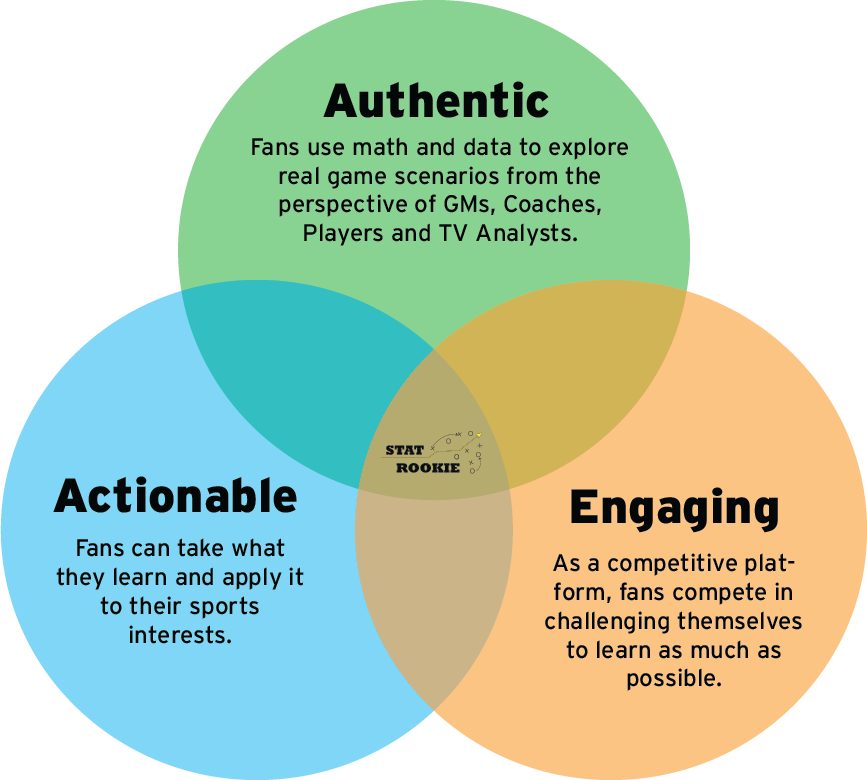
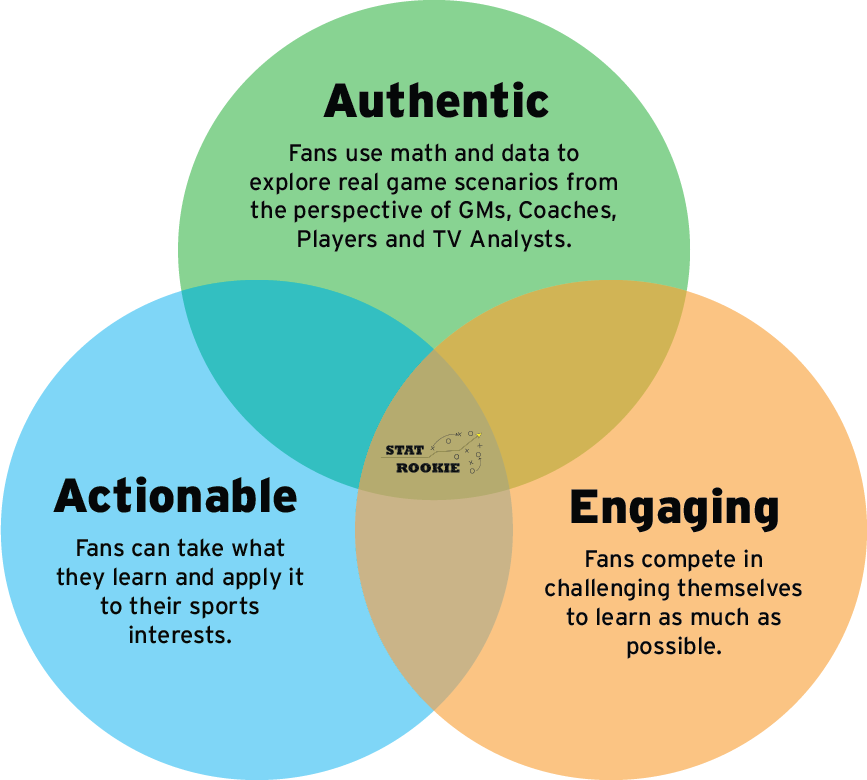
Add team bios. Plus other small changes.

Changed region(s): [[0.2803, 0.1538, 0.7163, 0.3385], [0.6228, 0.7077, 0.9343, 0.8923]]

diff --git a/team.html b/team.html
@@ -11,119 +11,180 @@ permalink: /team/
     <div class="row">
         <h1>Meet the team!</h1>
 
-        <p>Lorem ipsum dolor sit amet, consectetur adipiscing elit, sed do eiusmod
-            tempor incididunt ut labore et dolore magna aliqua. Ut enim ad minim veniam, quis nostrud exercitation
-            ullamco laboris nisi ut aliquip ex ea commodo consequat. Duis aute irure dolor in reprehenderit in voluptate
-            velit esse cillum dolore eu fugiat nulla pariatur. Excepteur sint occaecat cupidatat non proident, sunt in culpa qui
-            officia deserunt mollit anim id est laborum.</p>
+        <p>Our StatRookie team is comprised of talented individuals who are also passionate about sports. Our goal is
+            to deliver a great product that will teach and engage fans in sports analytics and stategy.
+        </p>
     </div>
     <div class="row">
         <div class="col">
             <!-- RAHUL -->
             <div class="card mb-3 border-0">
                 <div class="row g-0">
-                    <div class="col-md-5">
+                    <div class="col-md-4 p-2">
                         <img src="/assets/images/team/rahul.jpg" class="rounded-circle" width="95%"
                             alt="CEO Rahul Vasisht stands next to a banner with the StatRookie logo as his booth from MIT Sloan Analytics Conference in 2019.">
                     </div>
-                    <div class="col-md-7">
+                    <div class="col-md-8 p-2 d-flex align-items-center">
                         <div class="card-body">
                             <h3 class="card-title">Rahul Vasisht</h3>
                             <h5 class="card-title">Founder & CEO</h5>
-                            <p class="card-text">Lorem ipsum dolor sit amet, consectetur adipiscing elit, sed do eiusmod
-                                tempor incididunt ut labore et dolore magna aliqua. Ut enim ad minim veniam, quis nostrud 
-                                exercitation ullamco laboris nisi ut aliquip ex ea commodo consequat. Duis aute irure dolor 
-                                in reprehenderit in voluptate velit esse cillum dolore eu fugiat nulla pariatur. Excepteur 
-                                sint occaecat cupidatat non proident, sunt in culpa qui officia deserunt mollit anim id est laborum.</p>
-                            <!-- <p class="card-text"><small class="text-muted">Last updated 3 mins ago</small></p> -->
+                            <p class="card-text">Rahul started StatRookie as a way for fans to tap into their love of
+                                sports to help them in the classroom. As an engineer in the aerospace industry, he
+                                understood the importance of breaking down complex topics into simple, relatable
+                                concepts. As a sports fan, he took this same idea and applied it to the core of
+                                StatRookie. Rahul's goal is to ensure that all fans have the confidence and the
+                                resources to quantify their observations on and off the court.
+                            </p>
+                            <!-- <p class="card-text"><a href="" style="color:#FFD000 !important;">@???</a></p> -->
                         </div>
                     </div>
                 </div>
             </div>
         </div>
     </div>
-    <div class="row row-cols-1 row-cols-md-4 g-4">
+    <div class="row">
 
         <div class="col">
             <!-- RICHARD -->
             <div class="card mb-3 border-0">
-
-                <img src="/assets/images/team/richard.jpg" class="card-img-top img-fluid rounded-circle" alt="...">
-
-                <div class="card-body">
-                    <h3 class="card-title">Richard Lu</h3>
-                    <h5 class="card-title">Basketball & Baseball Analytics</h5>
-                    <p class="card-text">Lorem ipsum dolor sit amet, consectetur adipiscing elit, sed do eiusmod
-                        tempor incididunt ut labore et
-                        dolore magna aliqua. Rhoncus urna neque viverra justo nec ultrices. Ultricies lacus sed
-                        turpis tincidunt
-                        id. Commodo ullamcorper a lacus vestibulum sed arcu non odio.</p>
-                    <!-- <p class="card-text"><small class="text-muted">Last updated 3 mins ago</small></p> -->
+                <div class="row g-0">
+                    <div class="col-md-4 p-2">
+                        <img src="/assets/images/team/richard.jpg" class="rounded-circle" width="95%"
+                            alt="...">
+                    </div>
+                    <div class="col-md-8 p-2 d-flex align-items-center">
+                        <div class="card-body">
+                            <h3 class="card-title">Richard Lu</h3>
+                            <h5 class="card-title">Basketball & Baseball Analytics</h5>
+                            <p class="card-text">Driven by a passion for sports, basketball in particular, Richard Lu
+                                has spent years meticulously researching the NBA to hone his analytical skills. This
+                                strong
+                                background in breaking down data allowed him to serve as an analytic consultant for the
+                                Phoenix Suns
+                                and Chicago Bulls in the early 2010s. His most notable achievement in this time is that
+                                he
+                                utilized a proprietary draft methodology to identify Jimmy Butler in the 2011 NBA Draft
+                                as an
+                                undervalued prospect that could flourish in the right conditions. This assessment has
+                                proven to be
+                                true because in the time since that draft, Butler has gone on to earn All-NBA and
+                                All-Defensive team honors multiple times in his career. With great dedication and
+                                attention to detail,
+                                Richard
+                                draws upon this past experience to provide the same high-level of quality to the
+                                analytics used
+                                in this platform. Also, he annually publishes independent, research-based books to
+                                preview
+                                upcoming NBA seasons and evaluate incoming draft prospects on <a
+                                    href="https://www.amazon.com/Richard-Lu/e/B07DNRZ31M"
+                                    >Amazon</a>. Finally, he graduated with
+                                a bachelor’s degree from the University of Southern California and is originally from
+                                St. Louis,
+                                Missouri, which makes him an avid Cardinals and Blues fan.</p>
+                            <!-- <p class="card-text"><a href="" style="color:#FFD000 !important;">@???</a></p> -->
+                        </div>
+                    </div>
                 </div>
-
             </div>
         </div>
-
+    </div>
+       <div class="row">
         <div class="col">
             <!-- DANIEL K -->
             <div class="card mb-3 border-0">
+                <div class="row g-0">
+                    <div class="col-md-4 p-2">
+                        <img src="/assets/images/team/daniel-k.jpg" class="rounded-circle" width="95%"
+                            alt="...">
+                    </div>
+                    <div class="col-md-8 p-2 d-flex align-items-center">
 
-                <img src="/assets/images/team/daniel-k.png" class="card-img-top img-fluid rounded-circle" alt="...">
+                        <div class="card-body">
+                            <h3 class="card-title">Daniel Kruger</h3>
+                            <h5 class="card-title">Soccer Analytics</h5>
+                            <p class="card-text">Daniel is in charge of creating soccer content for StatRookie. He is
+                                originally
+                                from
+                                Eugene, Oregon and is a huge supporter of the Oregon Ducks. He attended Colorado
+                                College, majoring in Mathematical Economics and competing as a student-athlete on the
+                                soccer
+                                team. In his free time, Daniel can be found hiking, biking and spending time with
+                                friends.
 
-
-                <div class="card-body">
-                    <h3 class="card-title">Daniel Kruger</h3>
-                    <h5 class="card-title">Soccer Analytics</h5>
-                    <p class="card-text">Lorem ipsum dolor sit amet, consectetur adipiscing elit, sed do eiusmod
-                        tempor incididunt ut labore et
-                        dolore magna aliqua. Rhoncus urna neque viverra justo nec ultrices. Ultricies lacus sed
-                        turpis tincidunt
-                        id. Commodo ullamcorper a lacus vestibulum sed arcu non odio.</p>
-                    <!-- <p class="card-text"><small class="text-muted">Last updated 3 mins ago</small></p> -->
+                            </p>
+                            <p class="card-text"><a href="https://twitter.com/DanielKrueger96">@DanielKrueger96</a></p>
+                        </div>
+                    </div>
                 </div>
-
             </div>
         </div>
-
+    </div>
+    <div class="row">
         <div class="col">
             <!-- DANIEL C -->
             <div class="card mb-3 border-0">
+                <div class="row g-0">
+                    <div class="col-md-4 p-2">
+                        <img src="/assets/images/team/daniel-c.jpg" class="rounded-circle" width="95%"
+                            alt="...">
+                    </div>
+                    <div class="col-md-8 p-2 d-flex align-items-center">
 
-                <img src="/assets/images/team/daniel-c.jpg" class="card-img-top img-fluid rounded-circle" alt="...">
-
-
-                <div class="card-body">
-                    <h3 class="card-title">Daniel Clipper</h3>
-                    <h5 class="card-title">Baseball Analytics</h5>
-                    <p class="card-text">Lorem ipsum dolor sit amet, consectetur adipiscing elit, sed do eiusmod
-                        tempor incididunt ut labore et
-                        dolore magna aliqua. Rhoncus urna neque viverra justo nec ultrices. Ultricies lacus sed
-                        turpis tincidunt
-                        id. Commodo ullamcorper a lacus vestibulum sed arcu non odio.</p>
-                    <!-- <p class="card-text"><small class="text-muted">Last updated 3 mins ago</small></p> -->
+                        <div class="card-body">
+                            <h3 class="card-title">Daniel Clipper</h3>
+                            <h5 class="card-title">Baseball Analytics</h5>
+                            <p class="card-text">Daniel Clipper is responsible for creating baseball content for
+                                StatRookie.
+                                Originally from Millburn,
+                                NJ, Daniel is a senior at Carleton College in Northfield, MN, studying statistics. He’s
+                                also
+                                pitcher on Carleton’s varsity baseball team. Some fo Daniel’s interests include jazz,
+                                pasta,
+                                IPAs, and fantasizing about a coronavirus vaccine.
+                            </p>
+                            <!-- <p class="card-text"><a href=""">@???</a></p> -->
+                        </div>
+                    </div>
                 </div>
             </div>
         </div>
-
+    </div>
+    <div class="row">
         <div class="col">
             <!-- SAM -->
             <div class="card mb-3 border-0">
-
-                <img src="/assets/images/team/sam.jpg" class="rounded-circle img-fluid" alt="...">
-
-                <div class="card-body">
-                    <h3 class="card-title">Sam Kolovson</h3>
-                    <h5 class="card-title">User Experience Manager</h5>
-                    <p class="card-text">Lorem ipsum dolor sit amet, consectetur adipiscing elit, sed do eiusmod
-                        tempor incididunt ut labore et
-                        dolore magna aliqua. Rhoncus urna neque viverra justo nec ultrices. Ultricies lacus sed
-                        turpis tincidunt
-                        id. Commodo ullamcorper a lacus vestibulum sed arcu non odio.</p>
-                    <!-- <p class="card-text"><small class="text-muted">Last updated 3 mins ago</small></p> -->
+                <div class="row g-0">
+                    <div class="col-md-4 p-2">
+                        <img src="/assets/images/team/sam.jpg" class="rounded-circle" width="95%" alt="...">
+                    </div>
+                    <div class="col-md-8 p-2 d-flex align-items-center">
+                        <div class="card-body">
+                            <h3 class="card-title">Sam Kolovson</h3>
+                            <h5 class="card-title">User Experience Manager</h5>
+                            <p class="card-text">Sam Kolovson is in charge of the User Experience at StatRookie. She
+                                works with
+                                the
+                                whole the team to turn analytics into engaging content. Sam is also a PhD student in
+                                Human-Centered Design and Engineering
+                                at the University of Washington. She studies the impact of tracking technology on
+                                College
+                                athletes and sports teams. Originally from Boston, Sam is a huge fan of the Red Sox,
+                                Patriots,
+                                and Celtics, though Seattle has made her a fan of the Storm! Before moving to Seattle
+                                for
+                                her PhD, Sam graduated from UMass Amherst where she studied Computer Science and was a
+                                student-athlete on
+                                the rowing team. In her spare time, Sam enjoys rowing, biking, November Project, and
+                                hanging out
+                                with her
+                                cat or friends.</p>
+                            <p class="card-text"><a href="https://twitter.com/kolovsam">@kolovsam</a></p>
+                        </div>
+                    </div>
                 </div>
-
             </div>
         </div>
+    </div>
 
     </div>
 

diff --git a/_includes/footer.html b/_includes/footer.html
@@ -8,9 +8,9 @@
             </div>
             <div class="col-sm text-center" >
                 StatRookie, LLC <br>
-                https://statrookie.github.io <br>
                 Seattle, Washington <br>
-                <a href="https://twitter.com/statrookie">@statrookie</a><br>
+                <a href="https://statrookie.github.io" style="color: white !important;">www.statrookie.com</a><br>
+                <a href="https://twitter.com/statrookie" style="color: white !important;">@statrookie</a><br>
             </div>
             <!-- <div class="col-sm text-center"> -->
                 <!-- SOCIAL LINKS -->

diff --git a/assets/css/custom.css b/assets/css/custom.css
@@ -37,8 +37,9 @@ nav {
     padding-right: 20px;
 }
 
+
 a {
-    color: white !important;
+    color: black !important;
 }
 
 a:hover{
